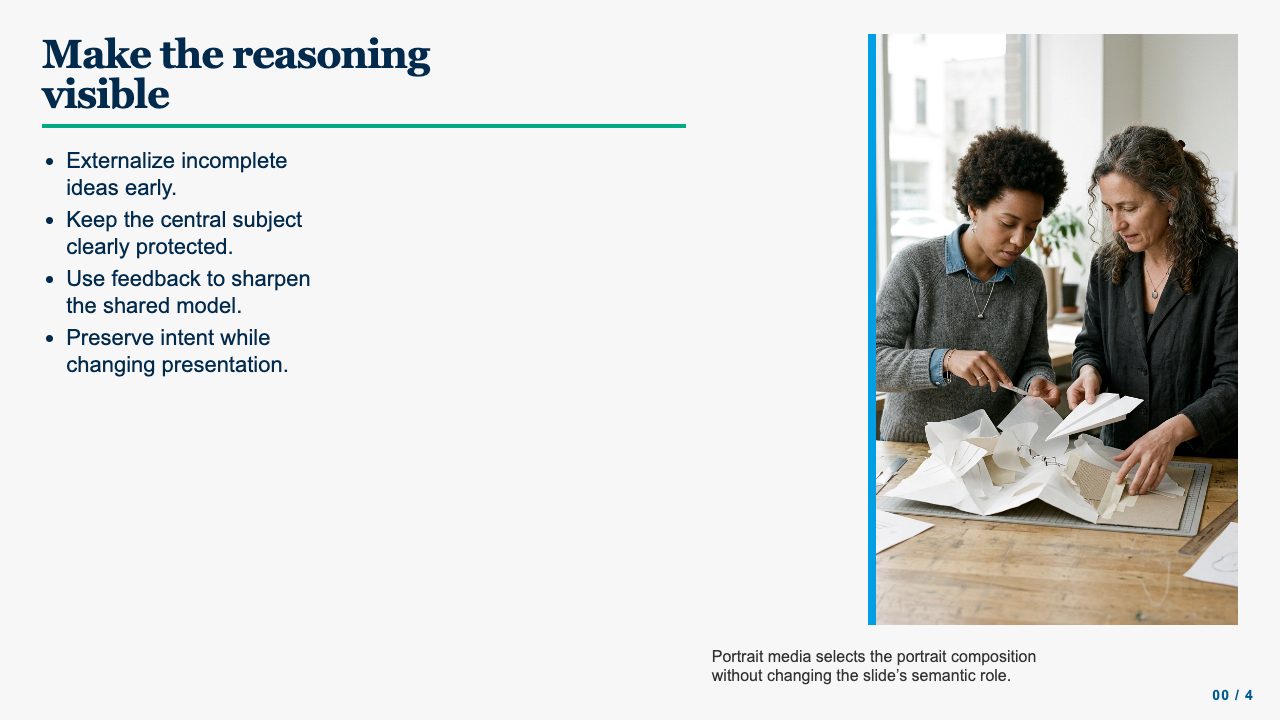
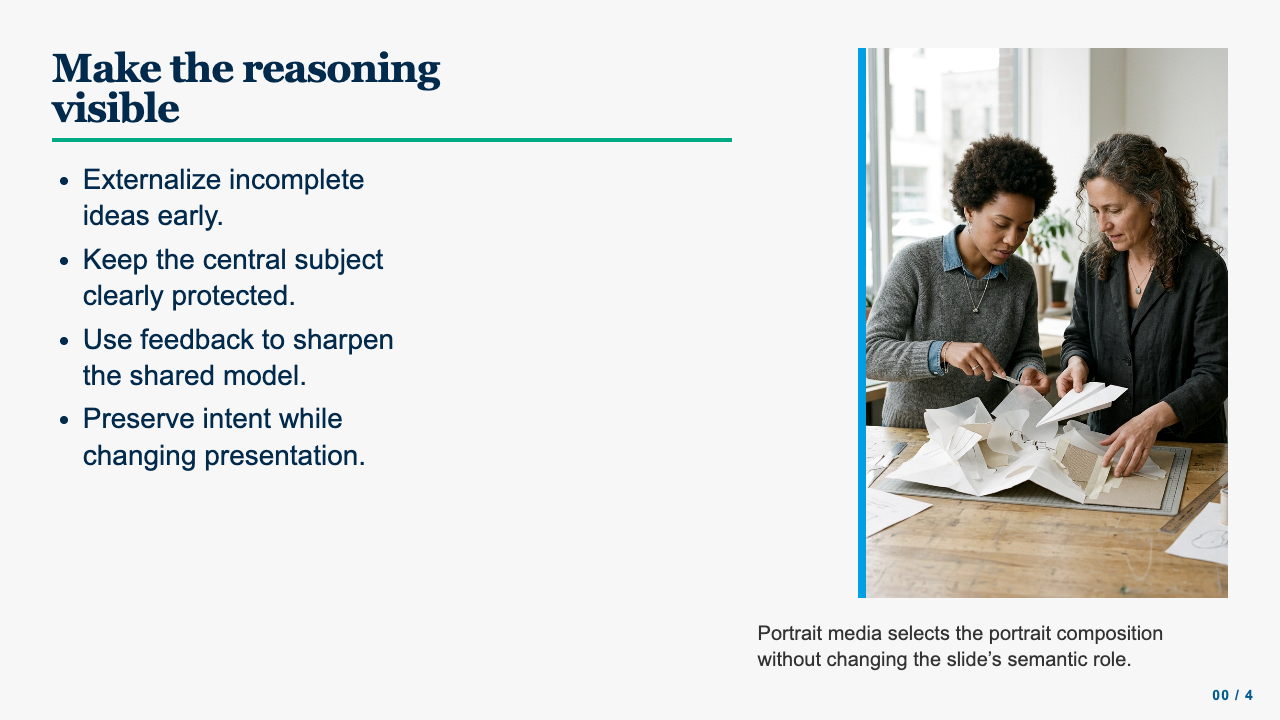
feat: add landscape full-image gallery sample

Changed region(s): [[0.5625, 0.0306, 0.9688, 0.9472], [0.0312, 0.0306, 0.5625, 0.6722]]

diff --git a/skills/presentation/generate-slides/themes/compact-signal/theme.css b/skills/presentation/generate-slides/themes/compact-signal/theme.css
@@ -32,7 +32,7 @@ section {
 }
 section *, section *::before, section *::after { box-sizing: border-box; }
 section [class*="slot-"] { min-width: 0; }
-section.variation-default, section.variation-portrait, section.variation-landscape { isolation: isolate; }
+section.variation-default, section.variation-portrait, section.variation-landscape, section.variation-full-image { isolation: isolate; }
 section.tone-light, section.tone-dark, section.tone-accent { --theme-tone-present: 1; }
 section::after {
   position: absolute;
@@ -85,7 +85,7 @@ section.archetype-text-only .slot-body ul, section.archetype-text-only .slot-bod
 section.archetype-text-only .slot-body li { display: grid; grid-template-columns: 36px 1fr; min-height: 48px; margin: 0; padding: 7px 0; border-bottom: 1px solid #c5d3dc; counter-increment: compact-step; }
 section.archetype-text-only .slot-body li::before { content: counter(compact-step, decimal-leading-zero); color: var(--compact-red-strong); font-size: 14px; font-weight: 700; }
 
-section.archetype-text-plus-image { grid-template: auto 1fr auto / minmax(0, 56%) minmax(0, 44%); gap: 16px 26px; }
+section.archetype-text-plus-image { grid-template: auto 1fr auto / minmax(0, 60%) minmax(0, 40%); gap: 16px 26px; }
 section.archetype-text-plus-image .slot-heading { grid-column: 1; padding-bottom: 10px; border-bottom: 4px solid var(--compact-teal); }
 section.archetype-text-plus-image .slot-body { grid-column: 1; }
 section.archetype-text-plus-image .slot-media { grid-row: 1 / 3; grid-column: 2; border-left: 8px solid var(--compact-bright-blue); }
@@ -99,6 +99,12 @@ section.archetype-text-plus-image.variation-landscape .slot-body { position: abs
 section.archetype-text-plus-image.variation-landscape .slot-heading { top: 48px; border-left: 6px solid var(--compact-teal); border-bottom: 0; }
 section.archetype-text-plus-image.variation-landscape .slot-body { bottom: 48px; columns: 2; column-gap: 28px; }
 section.archetype-text-plus-image.variation-landscape .slot-caption { position: absolute; right: 42px; bottom: 38px; z-index: 1; padding: 7px 10px; background: rgb(255 255 255 / 92%); }
+section.archetype-text-plus-image.variation-full-image { display: block; padding: 0; background: var(--compact-blue); color: var(--compact-white); }
+section.archetype-text-plus-image.variation-full-image .slot-media { position: absolute; inset: 0; z-index: 0; width: 100%; height: 100%; border: 0; }
+section.archetype-text-plus-image.variation-full-image .slot-media img { filter: brightness(.62) saturate(.82) contrast(1.08); }
+section.archetype-text-plus-image.variation-full-image .slot-heading { position: absolute; z-index: 1; left: 52px; bottom: 58px; max-width: 820px; padding: 22px 30px; border-left: 7px solid var(--compact-teal); background: rgb(1 42 76 / 88%); font-size: 62px; }
+section.archetype-text-plus-image.variation-full-image .slot-body,
+section.archetype-text-plus-image.variation-full-image .slot-caption { display: none; }
 
 section.archetype-data { grid-template: auto 1fr auto / 1fr; gap: 14px; background: var(--compact-blue); color: var(--compact-white); }
 section.archetype-data::after { color: var(--compact-yellow); }

diff --git a/skills/presentation/generate-slides/themes/editorial/theme.css b/skills/presentation/generate-slides/themes/editorial/theme.css
@@ -28,7 +28,8 @@ section {
 
 section.variation-default,
 section.variation-portrait,
-section.variation-landscape { isolation: isolate; }
+section.variation-landscape,
+section.variation-full-image { isolation: isolate; }
 section.tone-light,
 section.tone-dark,
 section.tone-accent { --theme-tone-present: 1; }
@@ -176,7 +177,7 @@ section.archetype-text-only .slot-body ol { list-style: none; padding: 0; border
 section.archetype-text-only .slot-body li { padding: 12px 8px; border-bottom: 1px solid rgb(50 31 46 / 30%); }
 
 section.archetype-text-plus-image {
-  grid-template: auto 1fr auto / minmax(0, 54%) minmax(0, 1fr);
+  grid-template: auto 1fr auto / minmax(0, 60%) minmax(0, 1fr);
   gap: 28px 42px;
 }
 section.archetype-text-plus-image .slot-heading { grid-column: 1; }
@@ -187,6 +188,8 @@ section.archetype-text-plus-image .slot-caption {
   grid-row: 3;
   grid-column: 2;
   padding: 10px 0 0;
+  font-size: 20px;
+  line-height: 1.2;
 }
 section.archetype-text-plus-image.variation-portrait .slot-media {
   justify-self: end;
@@ -201,6 +204,12 @@ section.archetype-text-plus-image.variation-landscape .slot-body { grid-column: 
 section.archetype-text-plus-image.variation-landscape .slot-body { columns: 2; column-gap: 52px; }
 section.archetype-text-plus-image.variation-landscape .slot-media { grid-row: 3; grid-column: 1; width: 100%; height: 150px; }
 section.archetype-text-plus-image.variation-landscape .slot-caption { grid-row: 4; grid-column: 1; width: 100%; }
+section.archetype-text-plus-image.variation-full-image { display: block; padding: 0; background: var(--editorial-ink); color: var(--editorial-light); }
+section.archetype-text-plus-image.variation-full-image .slot-media { position: absolute; inset: 0; z-index: 0; width: 100%; height: 100%; background: var(--editorial-coral); }
+section.archetype-text-plus-image.variation-full-image .slot-media img { filter: brightness(.62) saturate(.82) sepia(.12); }
+section.archetype-text-plus-image.variation-full-image .slot-heading { position: absolute; z-index: 1; left: 58px; bottom: 58px; max-width: 820px; padding: 20px 28px; border-left: 5px solid var(--editorial-coral); background: rgb(50 31 46 / 88%); font-size: 62px; }
+section.archetype-text-plus-image.variation-full-image .slot-body,
+section.archetype-text-plus-image.variation-full-image .slot-caption { display: none; }
 
 section.archetype-data {
   grid-template: auto 1fr auto / 36% 1fr;

diff --git a/skills/presentation/generate-slides/themes/signal/theme.css b/skills/presentation/generate-slides/themes/signal/theme.css
@@ -33,7 +33,8 @@ section {
 
 section.variation-default,
 section.variation-portrait,
-section.variation-landscape { isolation: isolate; }
+section.variation-landscape,
+section.variation-full-image { isolation: isolate; }
 section.tone-light,
 section.tone-dark,
 section.tone-accent { --theme-tone-present: 1; }
@@ -161,7 +162,7 @@ section.archetype-text-only .slot-body li {
 section.archetype-text-only .slot-body li::before { content: counter(signal-step, decimal-leading-zero); color: var(--signal-magenta); font: 700 20px var(--signal-mono); }
 
 section.archetype-text-plus-image {
-  grid-template: auto 1fr auto / minmax(0, 52%) minmax(0, 48%);
+  grid-template: auto 1fr auto / minmax(0, 60%) minmax(0, 40%);
   gap: 24px 36px;
 }
 section.archetype-text-plus-image .slot-heading { grid-column: 1; border-bottom: 7px solid var(--signal-acid); padding-bottom: 16px; }
@@ -179,6 +180,12 @@ section.archetype-text-plus-image.variation-landscape .slot-body { grid-column: 
 section.archetype-text-plus-image.variation-landscape .slot-body { columns: 2; column-gap: 54px; }
 section.archetype-text-plus-image.variation-landscape .slot-media { grid-row: 3; grid-column: 1; width: 100%; height: 150px; padding-left: 0; clip-path: polygon(0 0, 94% 0, 100% 100%, 6% 100%); }
 section.archetype-text-plus-image.variation-landscape .slot-caption { grid-row: 4; grid-column: 1; width: 100%; }
+section.archetype-text-plus-image.variation-full-image { display: block; padding: 0; background: var(--signal-dark); color: var(--signal-light); }
+section.archetype-text-plus-image.variation-full-image .slot-media { position: absolute; inset: 0; z-index: 0; width: 100%; height: 100%; padding: 0; background: var(--signal-cyan); clip-path: none; }
+section.archetype-text-plus-image.variation-full-image .slot-media img { filter: brightness(.56) saturate(.78) contrast(1.12); }
+section.archetype-text-plus-image.variation-full-image .slot-heading { position: absolute; z-index: 1; left: 52px; bottom: 54px; max-width: 860px; padding: 18px 24px; border-left: 8px solid var(--signal-acid); background: rgb(11 15 25 / 90%); font-size: 68px; }
+section.archetype-text-plus-image.variation-full-image .slot-body,
+section.archetype-text-plus-image.variation-full-image .slot-caption { display: none; }
 
 section.archetype-data {
   grid-template: auto 1fr auto / 1fr;

diff --git a/skills/presentation/generate-slides/themes/field-notes/theme.css b/skills/presentation/generate-slides/themes/field-notes/theme.css
@@ -31,7 +31,8 @@ section {
 
 section.variation-default,
 section.variation-portrait,
-section.variation-landscape { isolation: isolate; }
+section.variation-landscape,
+section.variation-full-image { isolation: isolate; }
 section.tone-light,
 section.tone-dark,
 section.tone-accent { --theme-tone-present: 1; }
@@ -172,7 +173,7 @@ section.archetype-text-only .slot-body li { position: relative; padding: 10px 0 
 section.archetype-text-only .slot-body li::before { position: absolute; left: 0; content: "→"; color: var(--field-coral); font-weight: 800; }
 
 section.archetype-text-plus-image {
-  grid-template: auto 1fr auto / minmax(0, 48%) minmax(0, 52%);
+  grid-template: auto 1fr auto / minmax(0, 42%) minmax(0, 58%);
   gap: 26px 48px;
 }
 section.archetype-text-plus-image .slot-heading { grid-column: 2; }
@@ -198,6 +199,12 @@ section.archetype-text-plus-image.variation-landscape .slot-body { grid-column: 
 section.archetype-text-plus-image.variation-landscape .slot-body { align-self: start; columns: 2; column-gap: 50px; }
 section.archetype-text-plus-image.variation-landscape .slot-media { grid-row: 3; grid-column: 1; width: 100%; height: 145px; padding: 12px; transform: rotate(0.5deg); }
 section.archetype-text-plus-image.variation-landscape .slot-caption { grid-row: 4; grid-column: 1; width: 100%; transform: none; }
+section.archetype-text-plus-image.variation-full-image { display: block; padding: 0; background: var(--field-ink); color: var(--field-light); }
+section.archetype-text-plus-image.variation-full-image .slot-media { position: absolute; inset: 0; z-index: 0; width: 100%; height: 100%; padding: 0; background: var(--field-sage); box-shadow: none; transform: none; }
+section.archetype-text-plus-image.variation-full-image .slot-media img { filter: brightness(.58) saturate(.76) sepia(.1); }
+section.archetype-text-plus-image.variation-full-image .slot-heading { position: absolute; z-index: 1; left: 62px; bottom: 58px; max-width: 820px; padding: 20px 28px; border-left: 6px solid var(--field-coral); background: rgb(46 61 49 / 88%); font-size: 64px; }
+section.archetype-text-plus-image.variation-full-image .slot-body,
+section.archetype-text-plus-image.variation-full-image .slot-caption { display: none; }
 
 section.archetype-data {
   grid-template: auto 1fr auto / 40% 1fr;

diff --git a/skills/presentation/docs/presentation-themes.md b/skills/presentation/docs/presentation-themes.md
@@ -32,6 +32,24 @@ The sample artwork was AI-generated for this comparison and is reused unchanged 
 
 ![Field Notes title slide on textured cream paper with a green serif headline, red handwritten label, gold underline, and loosely taped portrait print](assets/presentation-themes/field-notes-title.png)
 
+### Plan with bullet points
+
+#### Editorial
+
+![Editorial text-only slide with a large serif heading and a wider numbered bullet list](assets/presentation-themes/editorial-text-only.png)
+
+#### Signal
+
+![Signal text-only slide with a bold condensed heading and a wide numbered bullet list on a dark grid](assets/presentation-themes/signal-text-only.png)
+
+#### Compact Signal
+
+![Compact Signal text-only slide with a compact serif heading and a wide numbered bullet list](assets/presentation-themes/compact-signal-text-only.png)
+
+#### Field Notes
+
+![Field Notes text-only slide with a natural serif heading and a wide arrow-led bullet list on textured paper](assets/presentation-themes/field-notes-text-only.png)
+
 ### Text plus image
 
 #### Editorial
@@ -49,6 +67,24 @@ The sample artwork was AI-generated for this comparison and is reused unchanged 
 #### Field Notes
 
 ![Field Notes text-plus-image slide with a taped portrait print on the left, serif heading and bullets on the right, and a handwritten-style caption beneath the image](assets/presentation-themes/field-notes-text-plus-image.png)
+
+### Full-bleed image
+
+#### Editorial
+
+![Editorial full-image slide with a serif title over a full-bleed landscape image and a warm coral overlay](assets/presentation-themes/editorial-full-image.png)
+
+#### Signal
+
+![Signal full-image slide with an uppercase title over a full-bleed landscape image, dark grid, and acid rule](assets/presentation-themes/signal-full-image.png)
+
+#### Compact Signal
+
+![Compact Signal full-image slide with a serif title over a full-bleed landscape image and dark blue overlay](assets/presentation-themes/compact-signal-full-image.png)
+
+#### Field Notes
+
+![Field Notes full-image slide with a serif title over a full-bleed landscape image and natural green overlay](assets/presentation-themes/field-notes-full-image.png)
 
 ### Data
 
